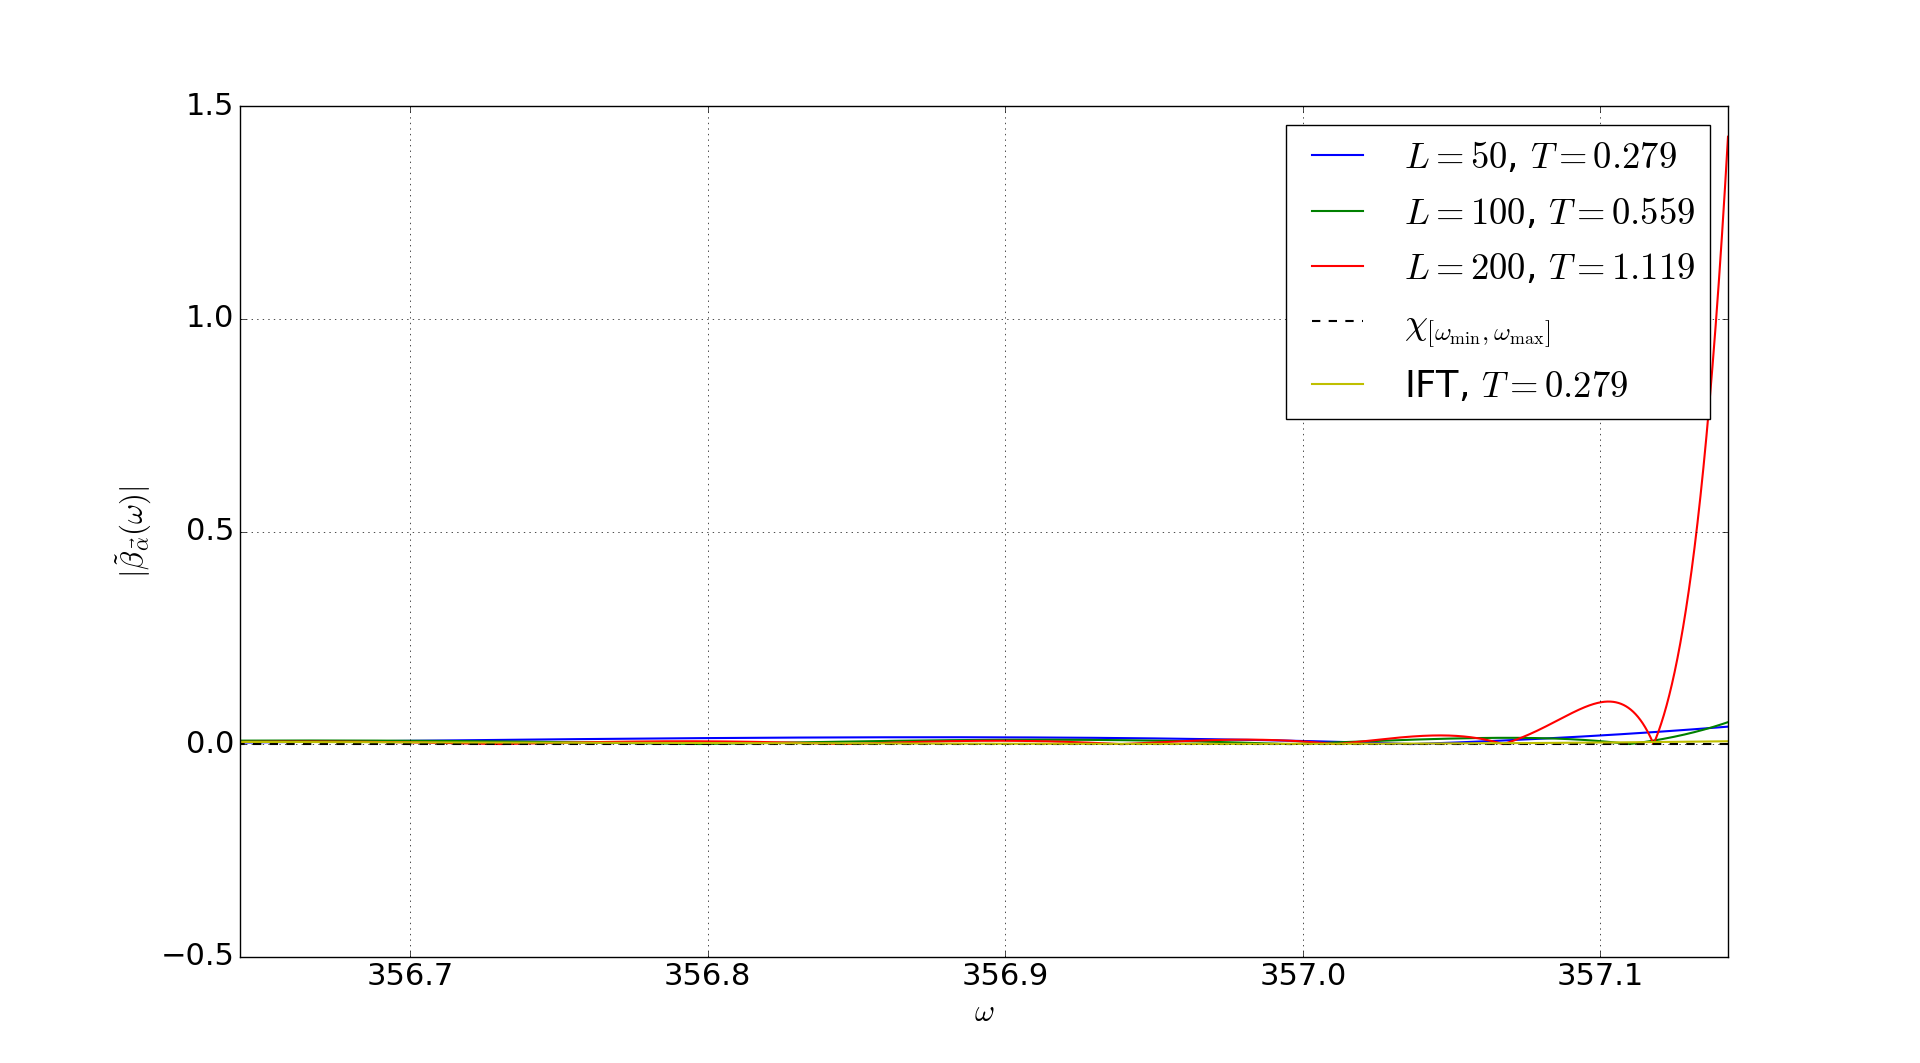
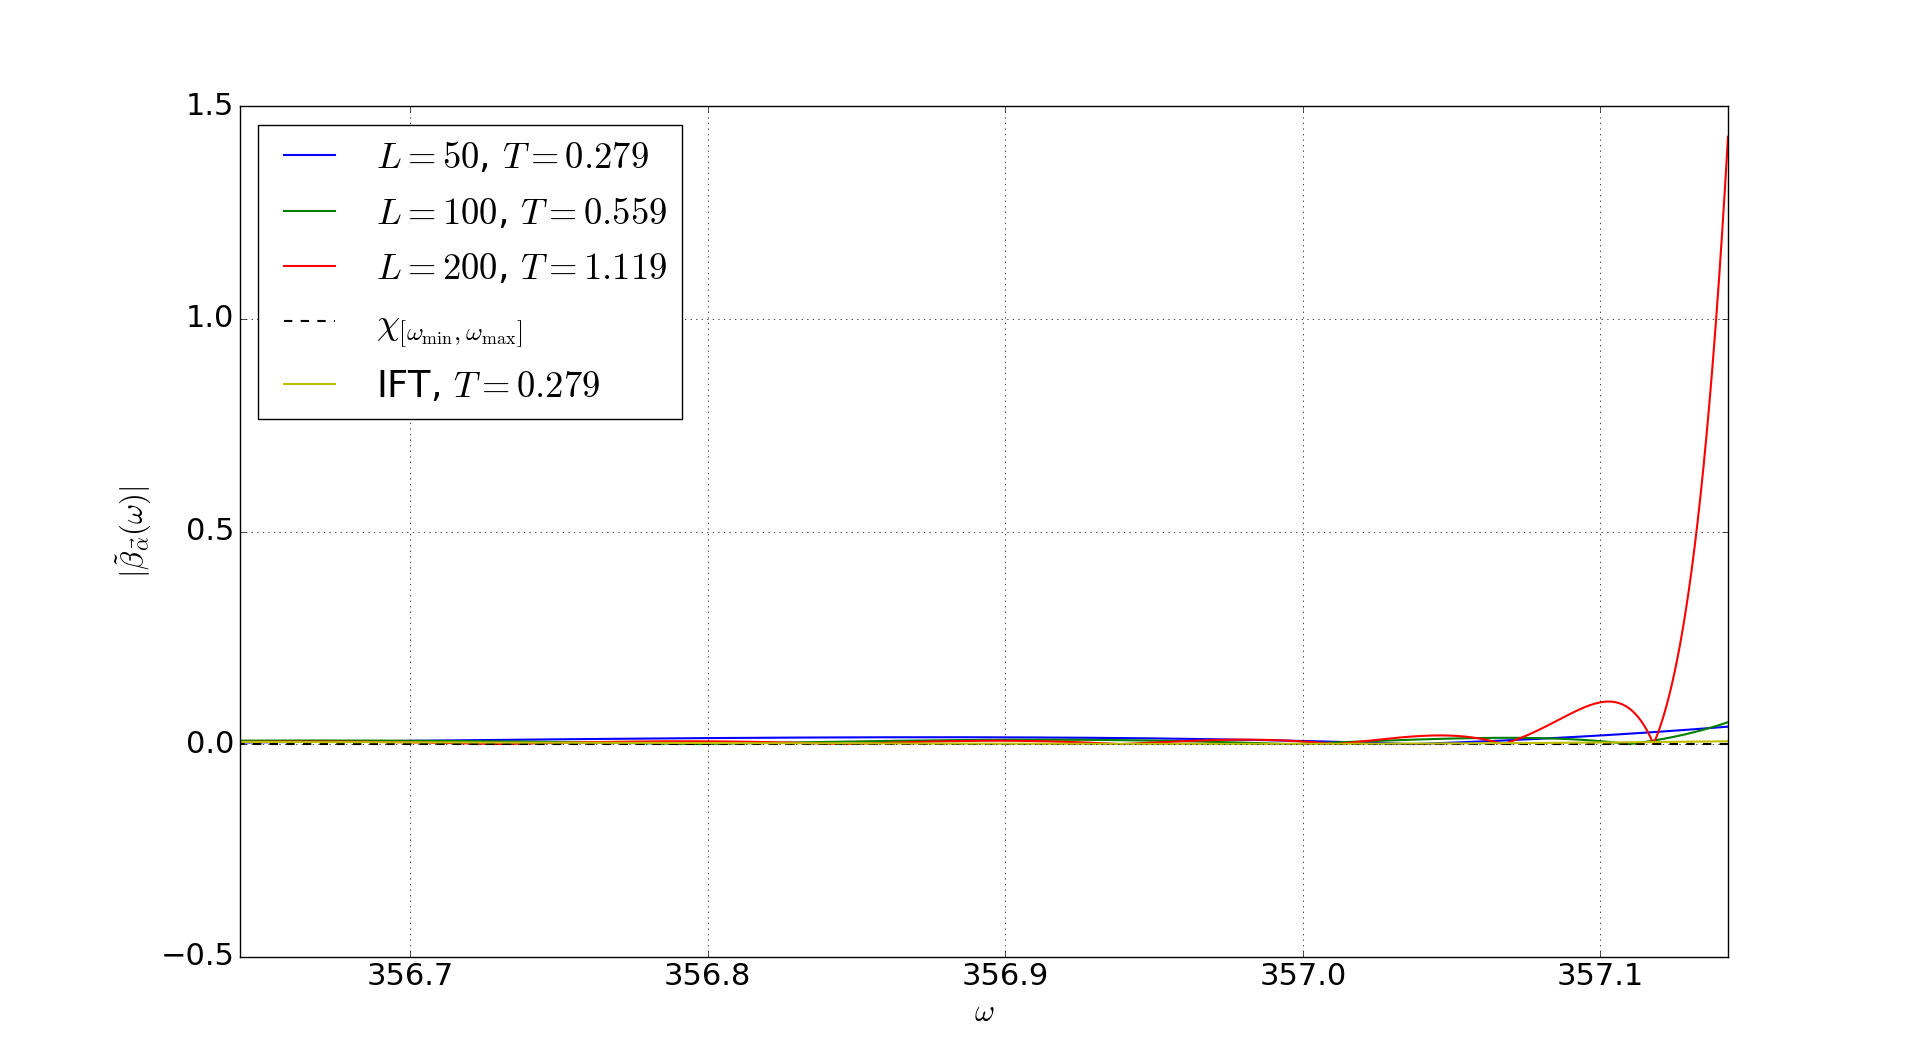
added plot of cond(Q^TQ)

diff --git a/l2_plots.py b/l2_plots.py
@@ -72,31 +72,39 @@ plot_beta(alpha_four, L, tau, om_end-0.5, om_end, ax6, label=f"IFT, $T={str(T)[0
 
 ax1.legend()
 ax2.legend()
-ax3.legend()
+ax3.legend(loc="upper left")
 ax4.legend()
 ax5.legend()
-ax6.legend()
+ax6.legend(loc="upper left")
 
 
-# L_max = 500
-# title = r"$\mathrm{cond}(Q^TQ)& "
-# # title = ""
-# ax7 = prepare_plots(5, L_max, title=title, xlabel="$L$", ylabel=r"$\mathrm{cond}(Q^TQ)$", set_y_lim=False, fontsize=22)
-# Ls = range(10, L_max+1, 10)
-# K = 5
-# conds = []
-# conds_cheb = []
-# for L in Ls:
-#     mesh = np.linspace(0, om_end - 1/K, num = int(K*om_end)) + 1/(2*K)
-#     Q = q_eval_mat(mesh, L, tau)
-#     conds.append(np.linalg.cond(Q.transpose() @ Q))
-#     mesh = chebyshev_nodes(0, om_end, int(K*om_end))
-#     Q = q_eval_mat(mesh, L, tau)
-#     conds_cheb.append(np.linalg.cond(Q.transpose() @ Q))
+L_max = 500
+# title = r"$\mathrm{cond}(Q^TQ)$ "
+title = ""
+ax7 = prepare_plots(5, L_max, title=title, xlabel="$L$", ylabel=r"$\mathrm{cond}(Q^TQ)$", set_y_lim=False, fontsize=22)
+Ls = range(10, L_max+1, 10)
+K = 5
+K2 = 20
+conds = []
+conds_2 = []
+conds_cheb = []
+for L in Ls:
+    mesh = np.linspace(0, om_end - 1/K, num = int(K*om_end)) + 1/(2*K)
+    Q = q_eval_mat(mesh, L, tau)
     
-# ax7.semilogy(Ls, conds, "r", label="Equidistant nodes")
-# ax7.semilogy(Ls, conds_cheb, "c", label="Chebyshev nodes")
-# ax7.legend()
+    conds.append(np.linalg.cond(Q.transpose() @ Q))
+    mesh = np.linspace(0, om_end - 1/K2, num = int(K2*om_end)) + 1/(2*K2)
+    Q = q_eval_mat(mesh, L, tau)
+    conds_2.append(np.linalg.cond(Q.transpose() @ Q))
+    
+    mesh = chebyshev_nodes(0, om_end, int(K*om_end))
+    Q = q_eval_mat(mesh, L, tau)
+    conds_cheb.append(np.linalg.cond(Q.transpose() @ Q))
+    
+ax7.semilogy(Ls, conds, "r", label="Equidistant nodes, $h=0.2$")
+ax7.semilogy(Ls, conds_2, "m", label="Equidistant nodes, $h=0.05$")
+ax7.semilogy(Ls, conds_cheb, "c", label="Chebyshev nodes")
+ax7.legend(loc="lower right")
 
 
 plt.show()
